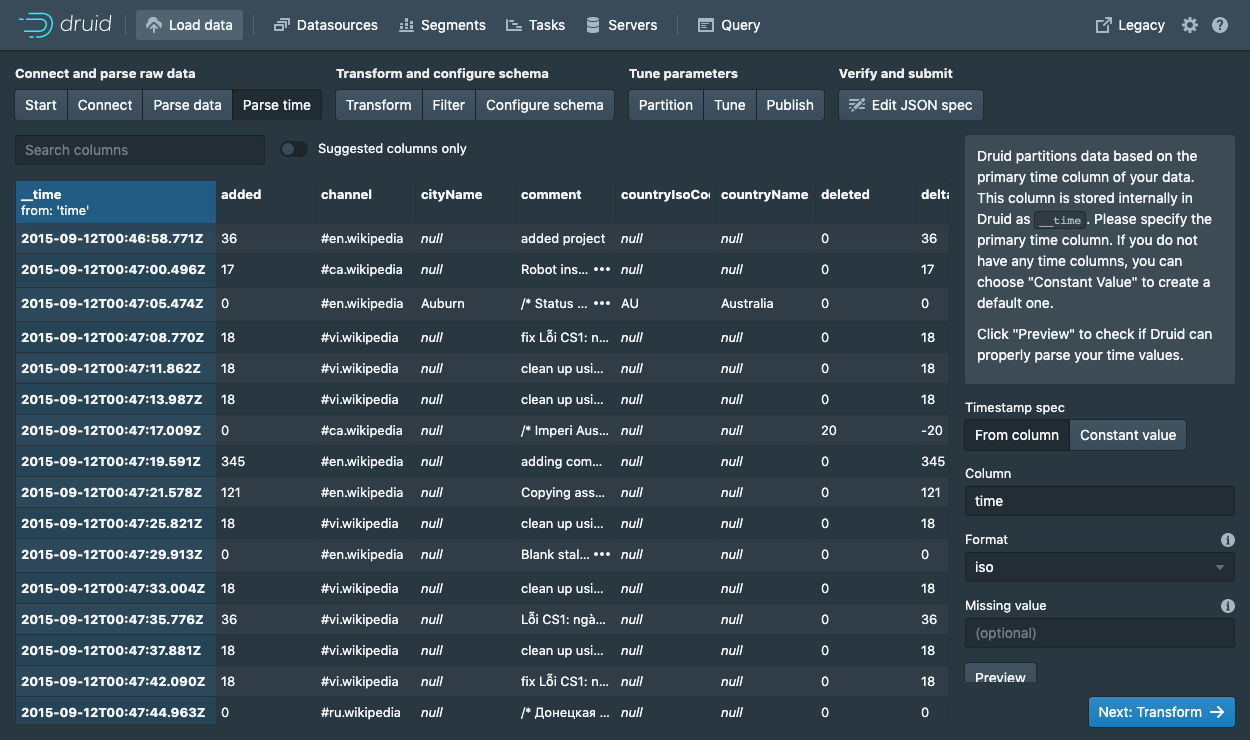
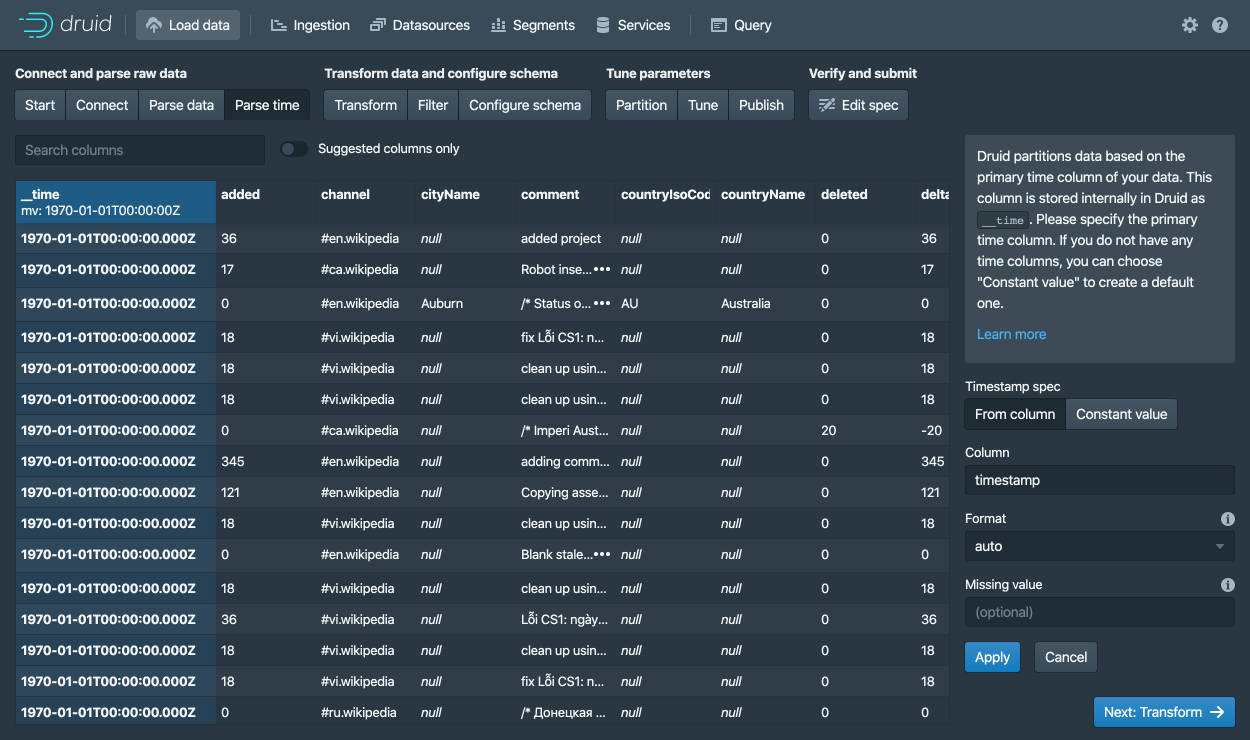
changed Preview to Apply (#9757)

diff --git a/docs/tutorials/tutorial-batch.md b/docs/tutorials/tutorial-batch.md
@@ -53,7 +53,7 @@ Select `Local disk` and click `Connect data`.
 Enter `quickstart/tutorial/` as the base directory and `wikiticker-2015-09-12-sampled.json.gz` as a filter.
 The separation of base directory and [wildcard file filter](https://commons.apache.org/proper/commons-io/apidocs/org/apache/commons/io/filefilter/WildcardFileFilter.html) is there if you need to ingest data from multiple files.
 
-Click `Preview` and make sure that the data you are seeing is correct.
+Click `Apply` and make sure that the data you are seeing is correct.
 
 Once the data is located, you can click "Next: Parse data" to go to the next step.
 

diff --git a/docs/tutorials/tutorial-kafka.md b/docs/tutorials/tutorial-kafka.md
@@ -89,7 +89,7 @@ Select `Apache Kafka` and click `Connect data`.
 
 Enter `localhost:9092` as the bootstrap server and `wikipedia` as the topic.
 
-Click `Preview` and make sure that the data you are seeing is correct.
+Click `Apply` and make sure that the data you are seeing is correct.
 
 Once the data is located, you can click "Next: Parse data" to go to the next step.
 
